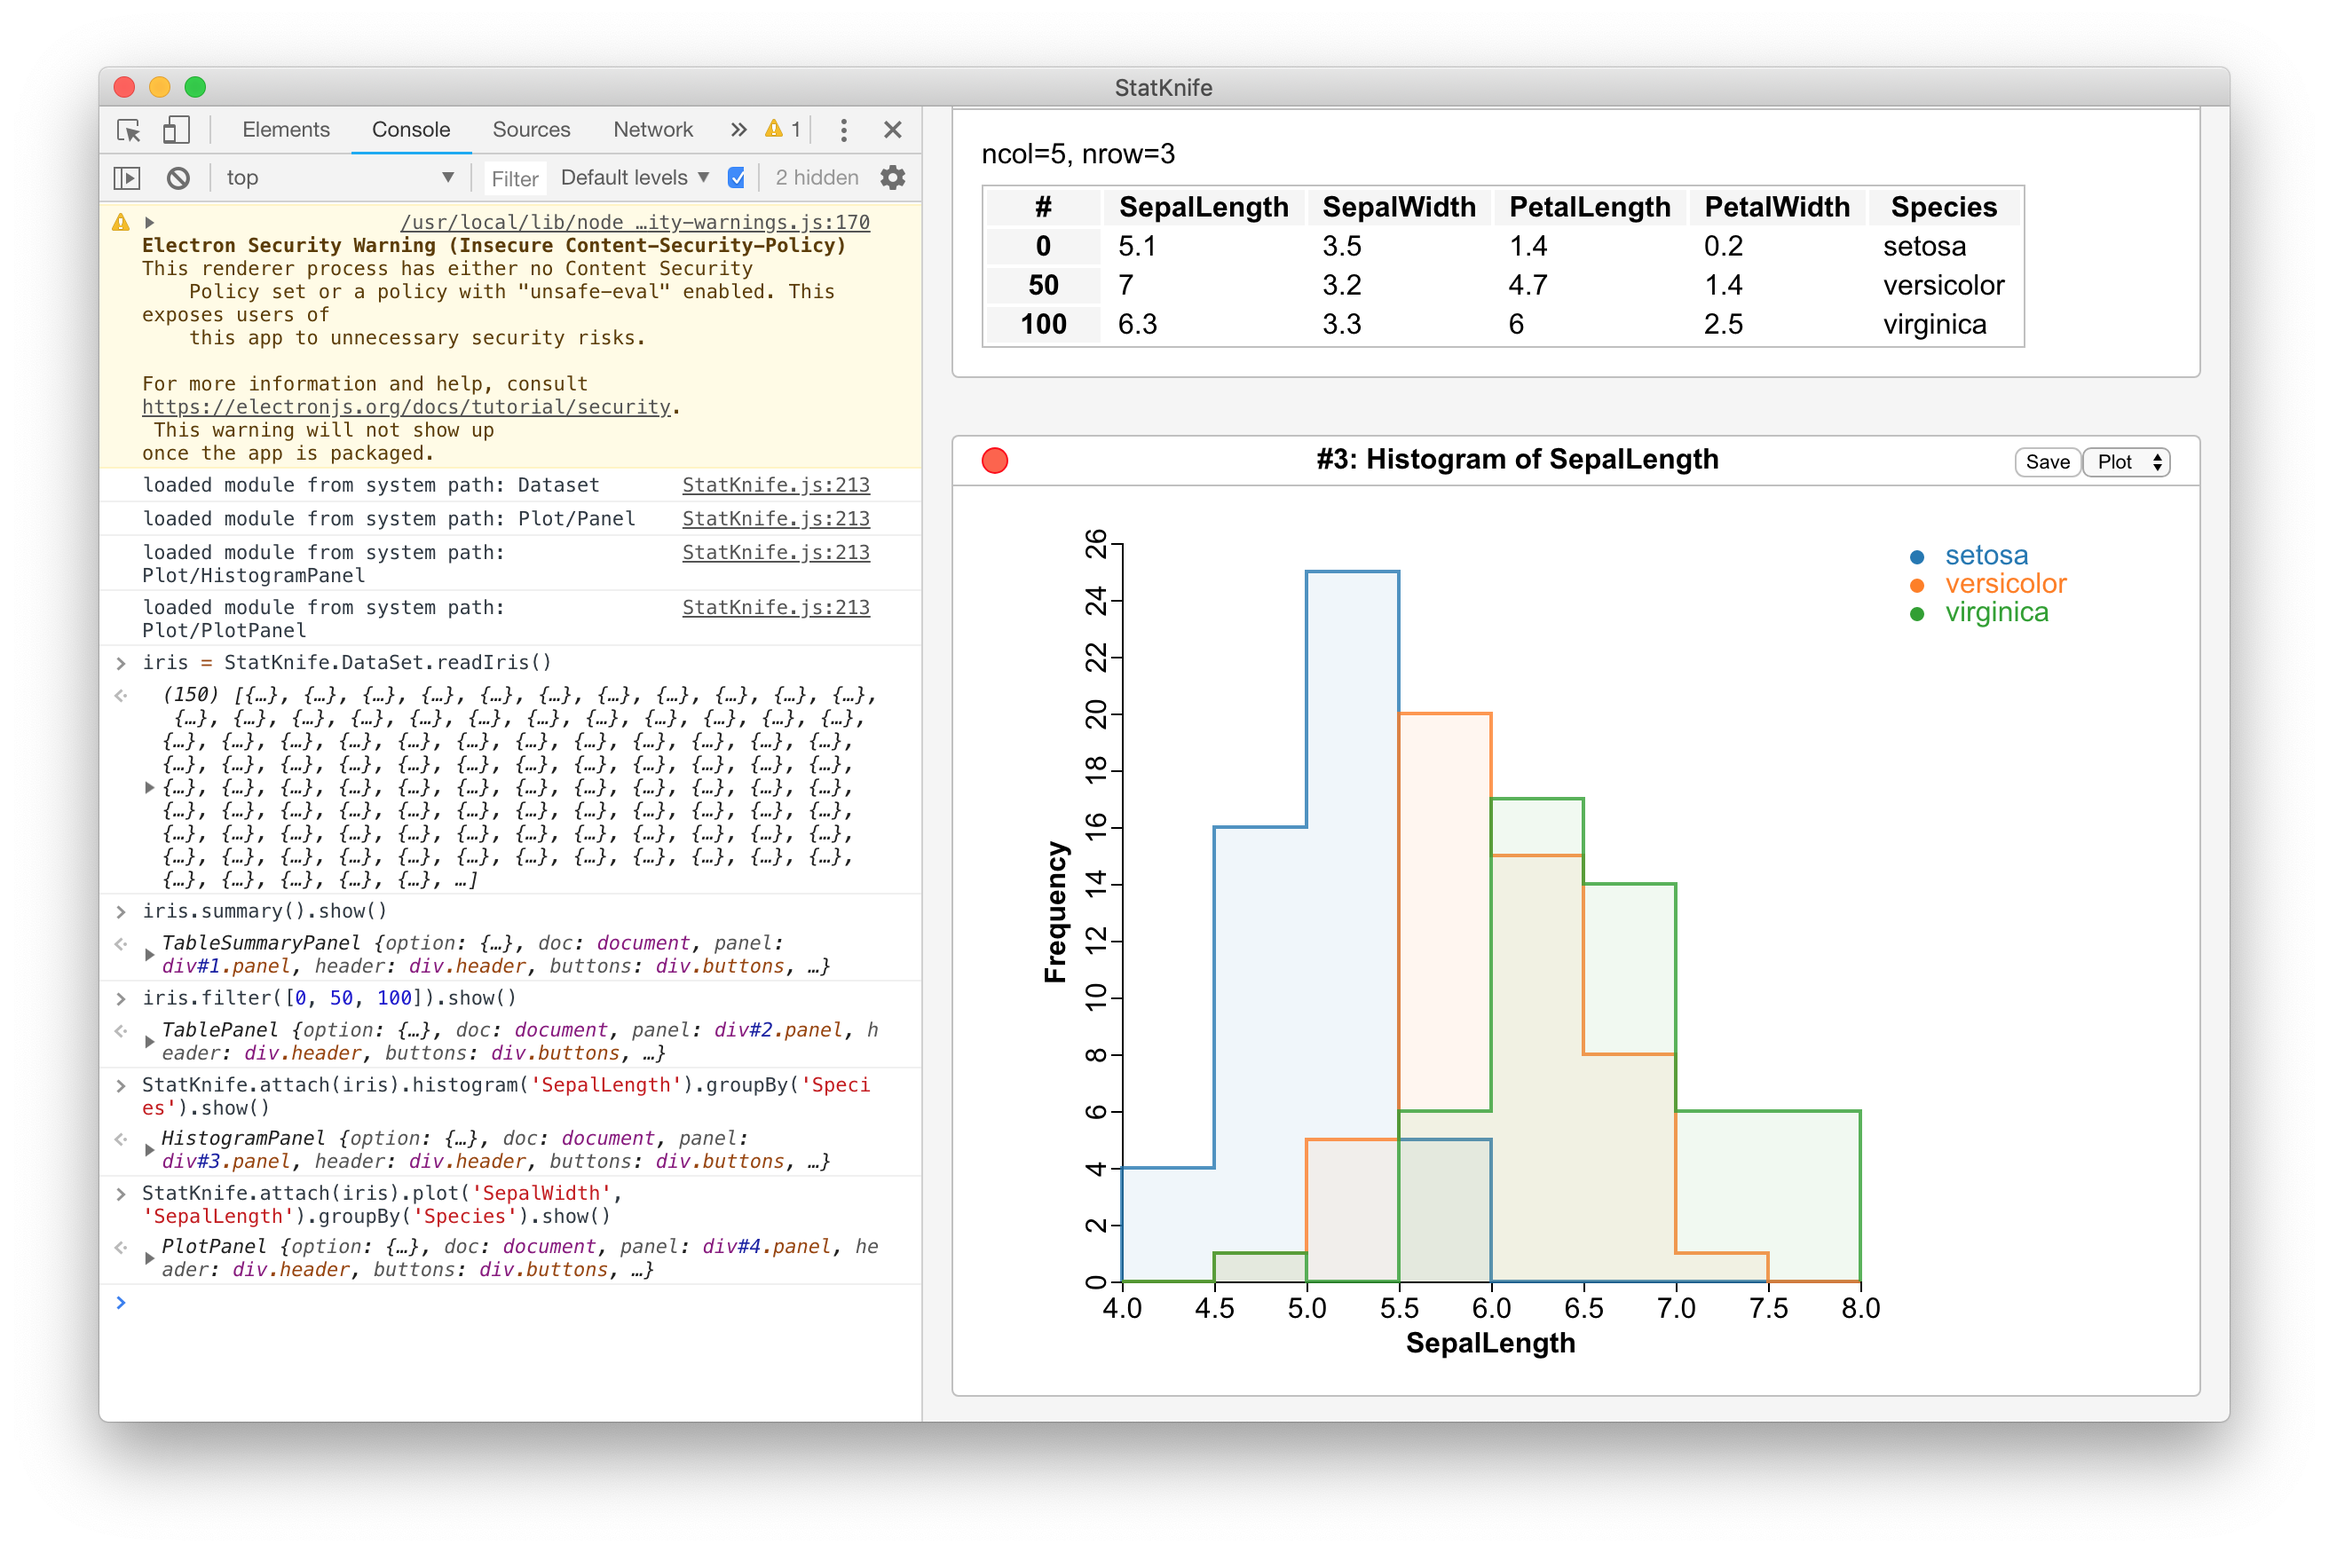
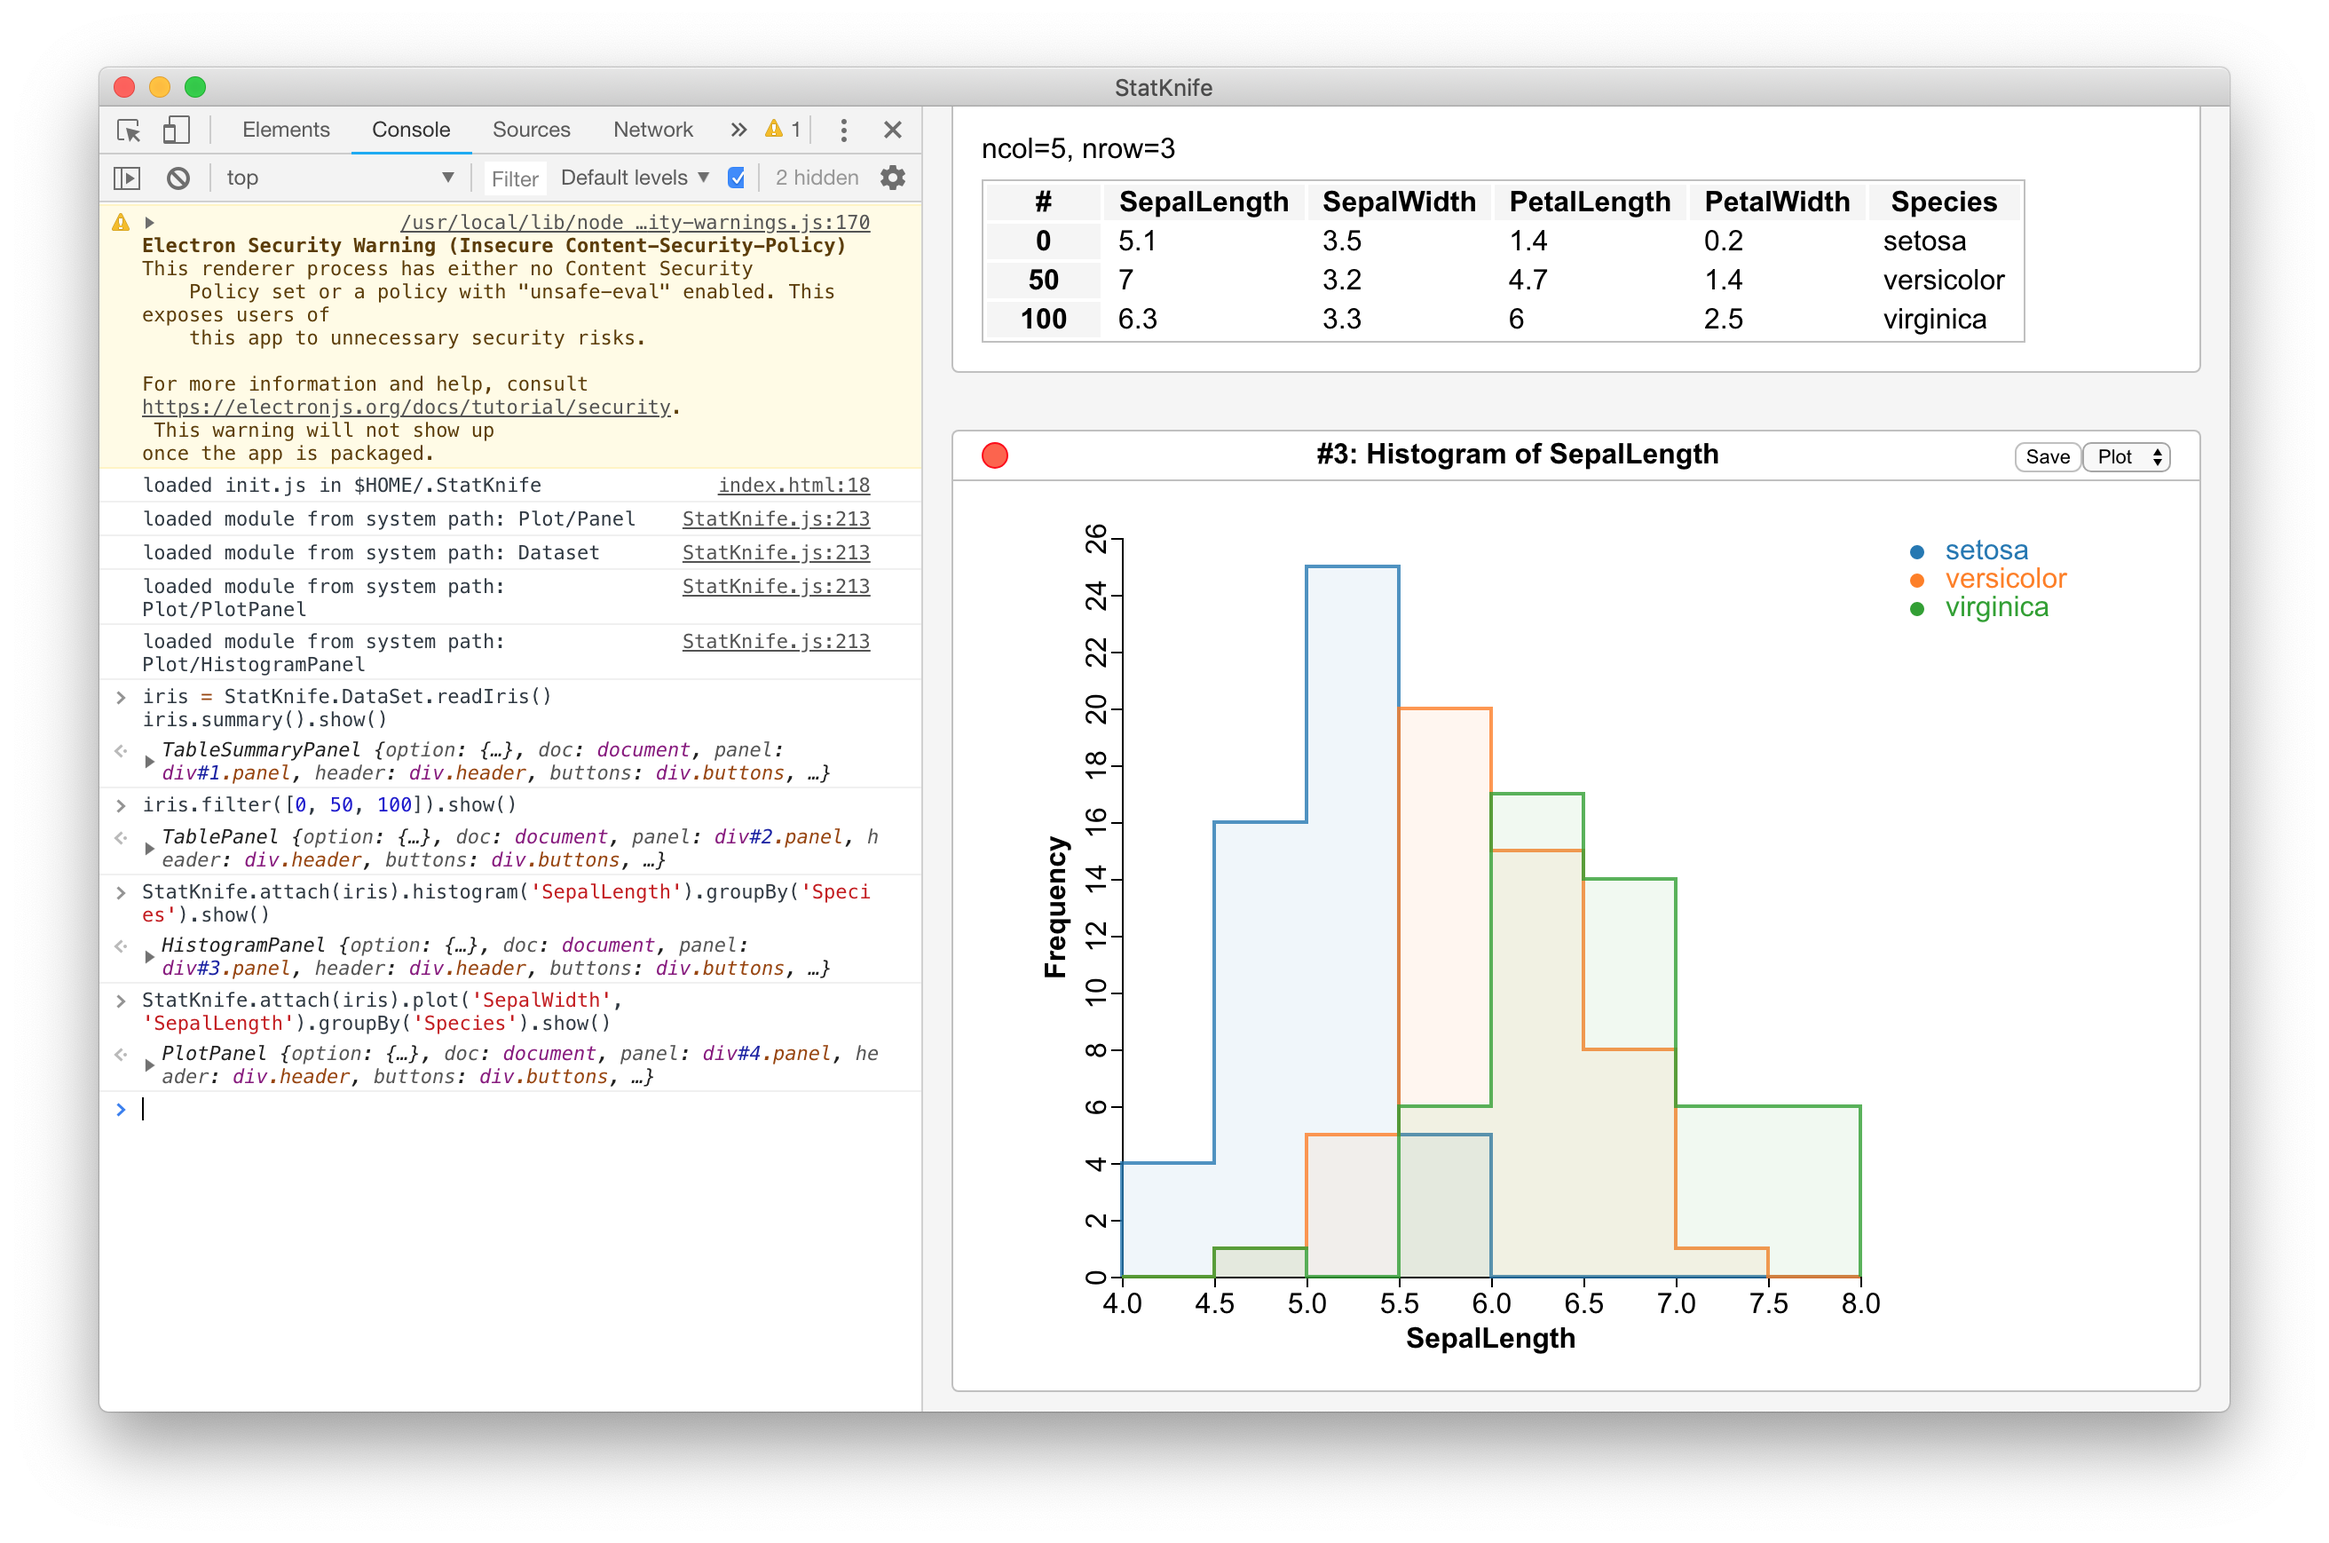
Supported user configuration scripts

diff --git a/main.js b/main.js
@@ -5,11 +5,18 @@ const app = electron.app;
 const BrowserWindow = electron.BrowserWindow;
 
 electron.protocol.registerStandardSchemes(['es6']);
+electron.protocol.registerStandardSchemes(['es6-root']);
 app.on('ready', function() {
   // Set MIME type 'text/javascript' for script[@type="module"].
   electron.protocol.registerBufferProtocol('es6', ( req, cb ) => {
     fs.readFile(
-      path.join(__dirname, req.url.replace('es6://', '')),
+      req.url.replace('es6://', ''),
+      (_, b) => { cb({mimeType: 'text/javascript', data: b})}
+    )
+  })
+  electron.protocol.registerBufferProtocol('es6-root', ( req, cb ) => {
+    fs.readFile(
+      req.url.replace('es6-root:/', ''),
       (_, b) => { cb({mimeType: 'text/javascript', data: b})}
     )
   })

diff --git a/index.html b/index.html
@@ -6,11 +6,19 @@
   <body>
     <div id="container"></div>
     <script type="module">
+      window.fs = require('fs');
+      window.process = require('process');
       window.d3 = require('d3');
       import StatKnife from 'es6://lib/StatKnife.js';
       window.StatKnife = new StatKnife(window);
       window.StatKnife.importFromSystemPath('Dataset');
       window.StatKnife.importFromSystemPath('Plot/Panel');
+      const initPath = `${process.env['HOME']}/.StatKnife/init.js`;
+      if (fs.existsSync(initPath)) {
+        import(`es6-root://${initPath}`).then(() => console.log(`loaded init.js in $HOME/.StatKnife`));
+      } else {
+        console.log(`skipped to load init.js in $HOME/.StatKnife`);
+      }
     </script>
   </body>
 </html>

diff --git a/lib/Plot/Panel.js b/lib/Plot/Panel.js
@@ -4,8 +4,8 @@ Symbol.all = Symbol('PlotPanel.all');
 Symbol.index = Symbol('PlotPanel.index');
 export default class Panel extends StatKnifePanel {
   static onimported(StatKnife) {
-    StatKnife.importFromSystemPath('Plot/HistogramPanel');
     StatKnife.importFromSystemPath('Plot/PlotPanel');
+    StatKnife.importFromSystemPath('Plot/HistogramPanel');
   }
   constructor(...args) {
     super(...args);

diff --git a/README.md b/README.md
@@ -11,6 +11,7 @@ It will also provide many features supported by modern Web browsers in many deve
 
 - Interactive JavaScript (ES6) console on [Electron](https://electronjs.org/).
 - Simple panel manager for summaries or plots
+- Load the user configuration script at `$HOME/.StatKnife/init.js`
 
 ## Showcases
 
